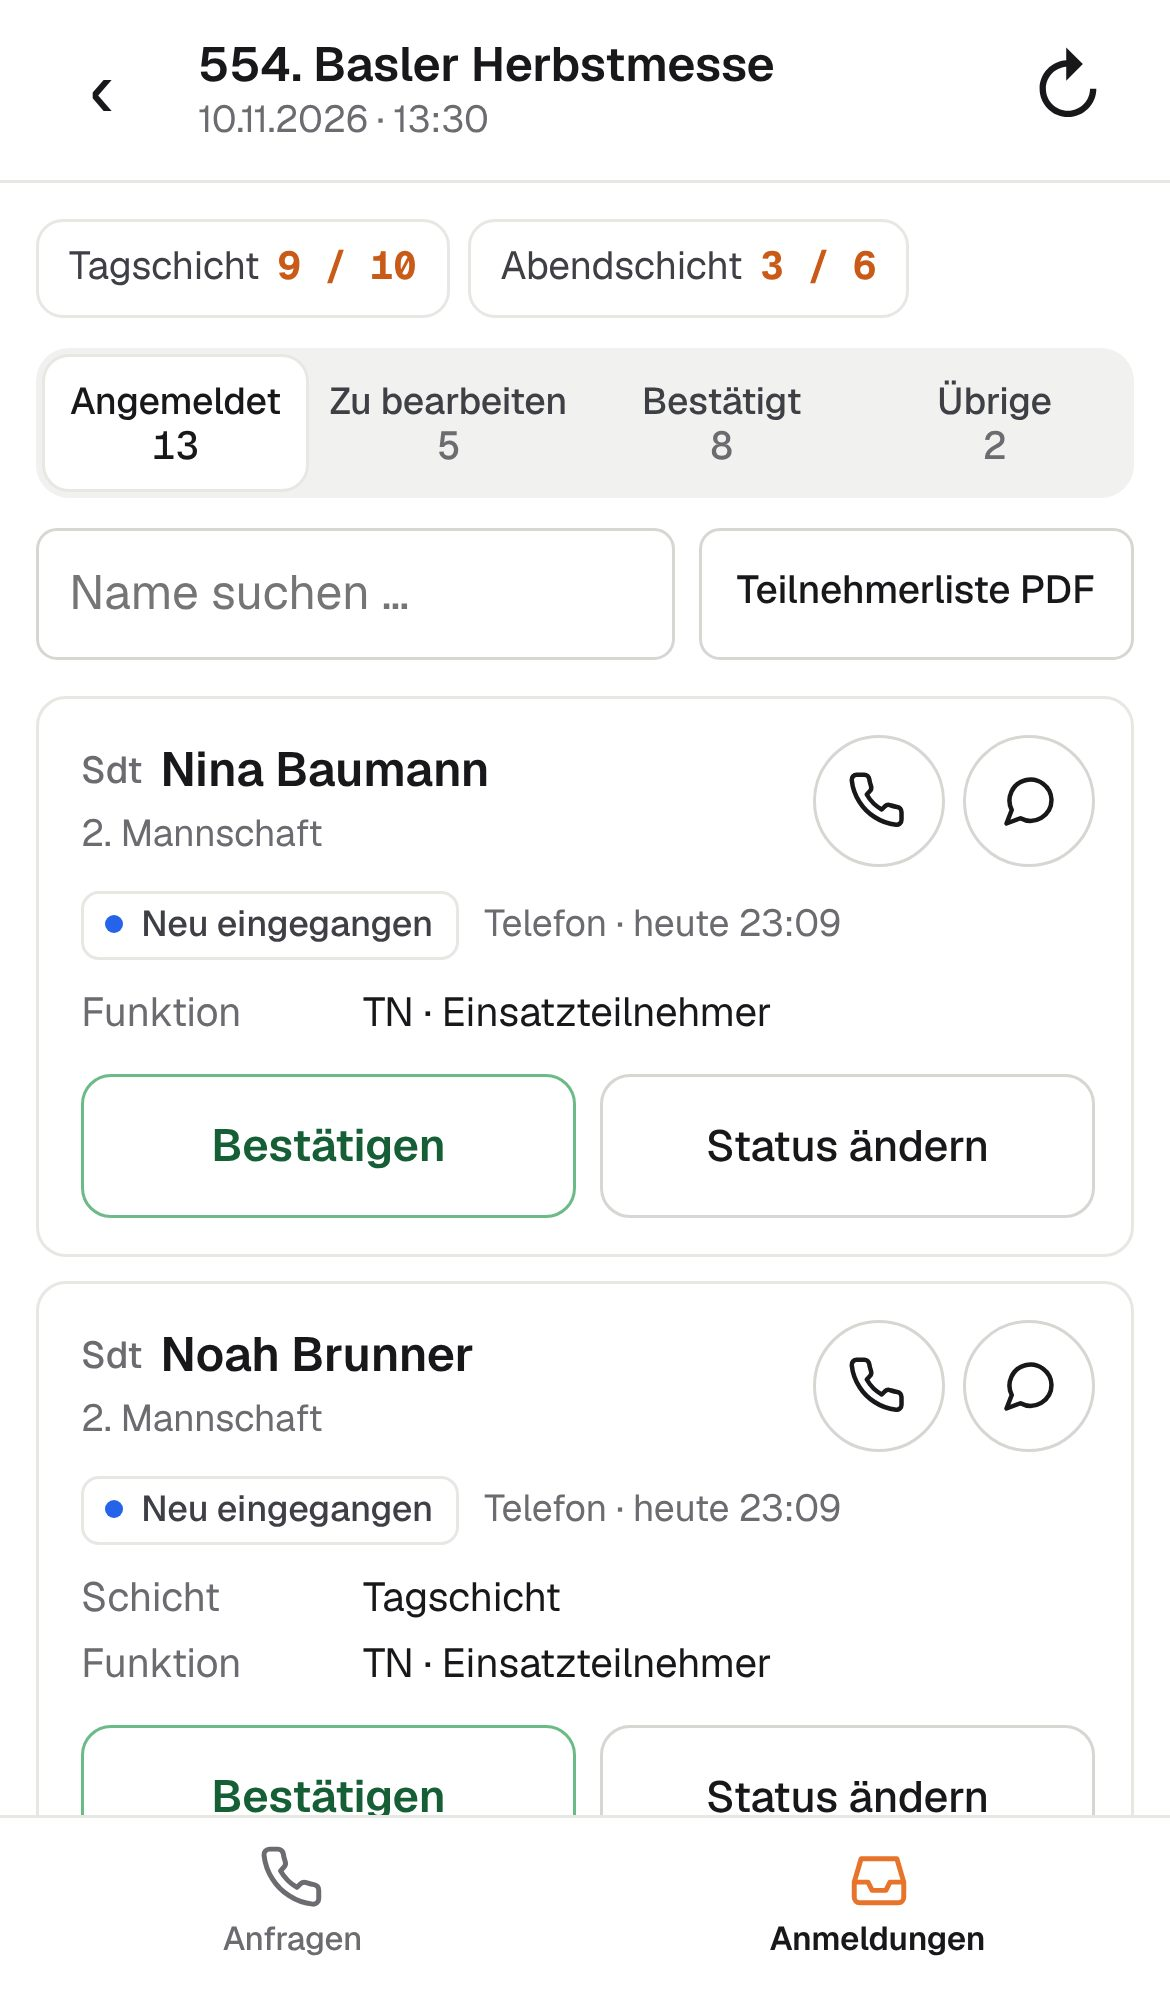
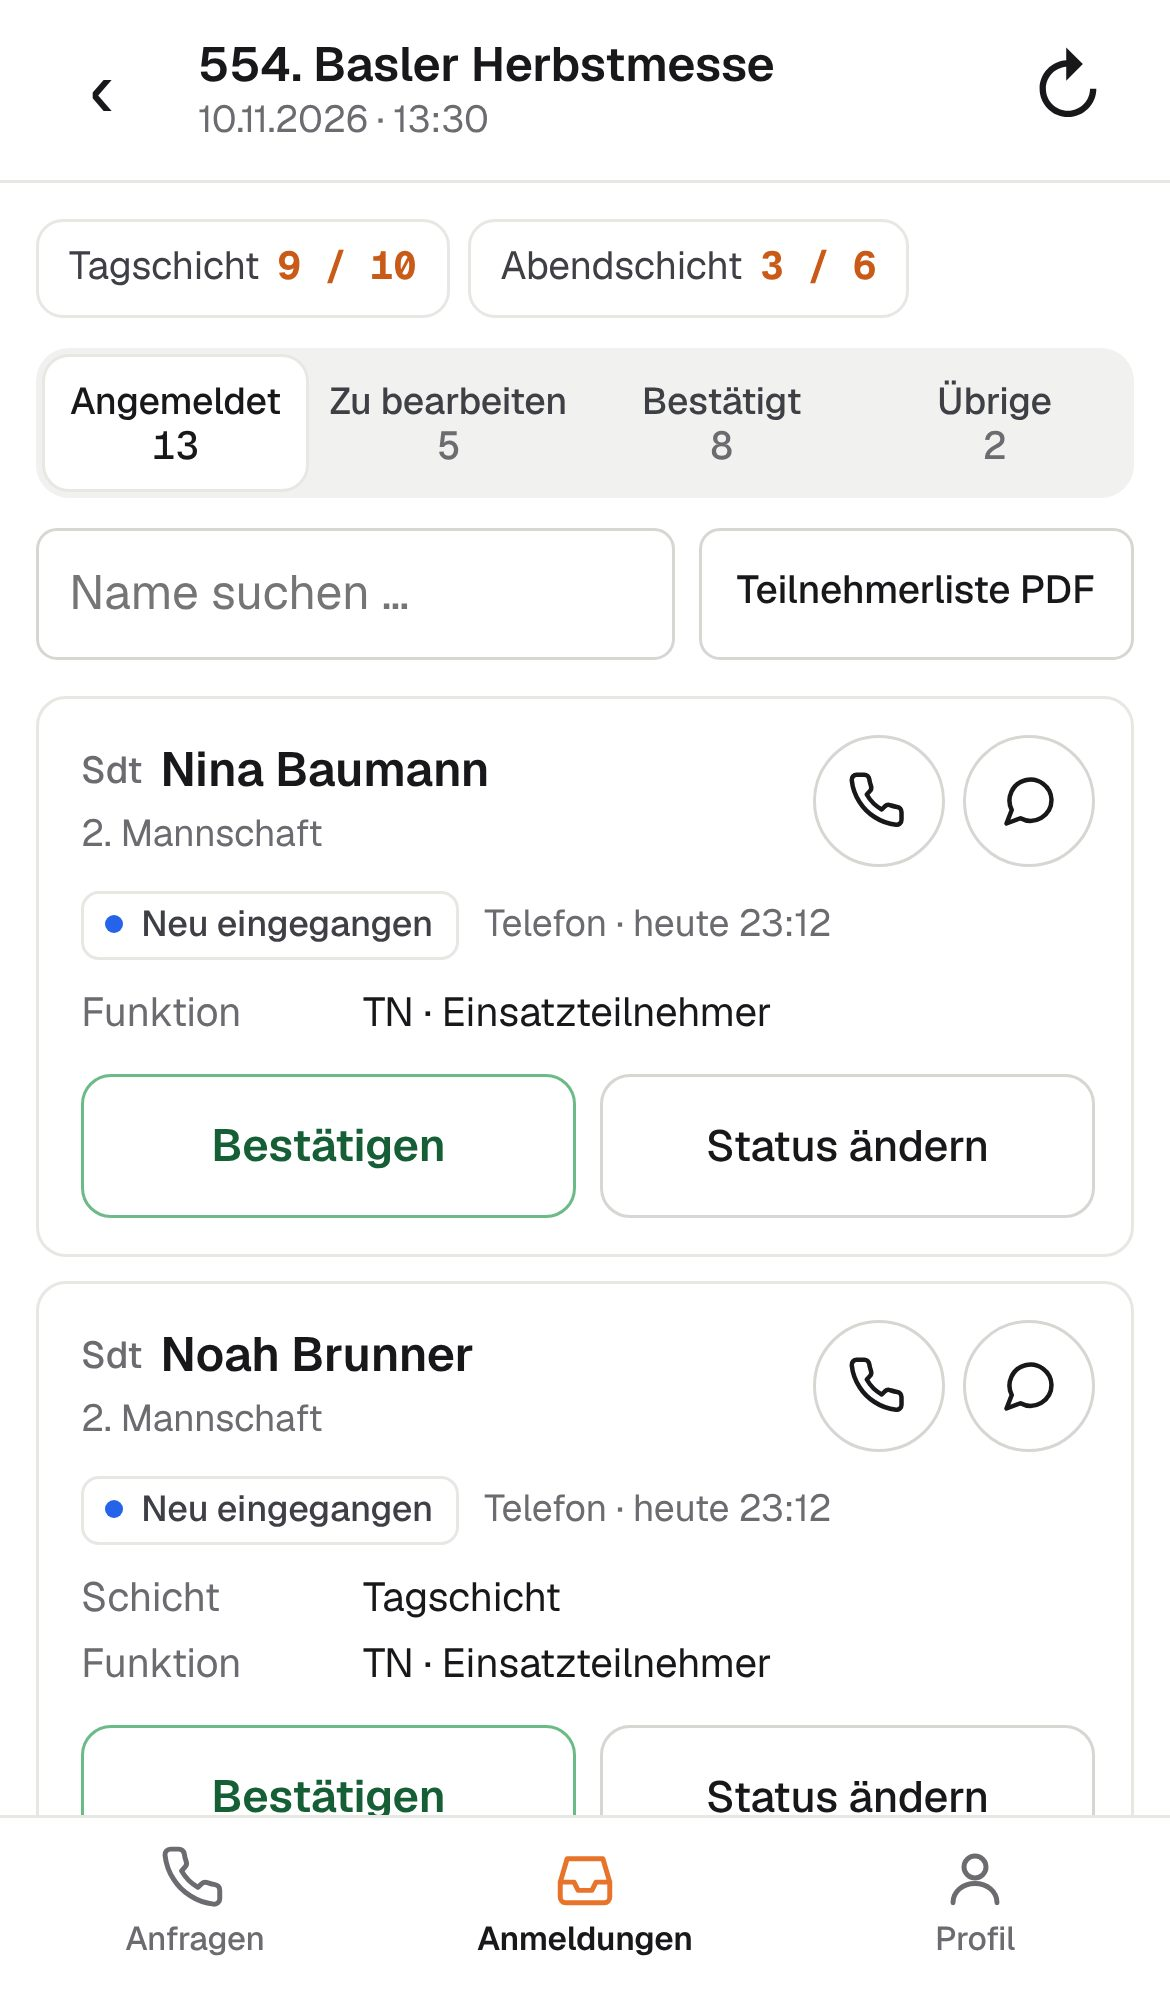
Handy-App: Reiter «Profil» statt Fusszeile
- Fusszeile (Name, Ganze Ansicht, Abmelden) entfernt
- Neuer Reiter «Profil» in der Leiste unten: Passwort ändern, Zwei-Faktor-Anmeldung,
  Darstellung (Wie System, Hell, Dunkel), Handbuch, Ganze Ansicht, Abmelden
- Passwort- und Zwei-Faktor-Seiten erscheinen auf dem Handy im Rahmen der Handy-App mit Leiste
- Handbuch Kapitel 11 nachgeführt, neues Bild 53, Bilder 46–52 neu, Tests ergänzt

Claude-Session: https://claude.ai/code/session_01EBemd4qYCqtvJgMncAa4uL

diff --git a/public/css/handy.css b/public/css/handy.css
@@ -16,9 +16,6 @@ body.handy { background: var(--bg); color: var(--text); margin: 0; min-height: 1
 .h-main { flex: 1; width: 100%; max-width: 640px; margin: 0 auto; padding: 12px 12px 24px; box-sizing: border-box; }
 .h-main .flash { margin-bottom: 10px; }
 
-.h-foot { display: flex; align-items: center; gap: 16px; justify-content: center; flex-wrap: wrap; padding: 16px 12px; padding-bottom: max(16px, env(safe-area-inset-bottom)); border-top: 1px solid var(--line); font-size: 13px; color: var(--muted); }
-.h-foot a, .h-foot button { color: var(--text-2); background: none; border: 0; font: inherit; padding: 10px 4px; cursor: pointer; text-decoration: underline; text-underline-offset: 3px; }
-.h-foot form { margin: 0; }
 
 .h-empty { text-align: center; padding: 32px 12px; color: var(--muted); }
 .h-empty .btn { margin-top: 8px; }
@@ -171,3 +168,27 @@ body.handy { padding-bottom: calc(60px + env(safe-area-inset-bottom)); }
 .h-contact-row { display: grid; grid-template-columns: 1fr 1fr; gap: 8px; }
 .h-contact-btn { min-height: 48px; font-size: 15px; gap: 8px; }
 .h-contact-btn svg { width: 18px; height: 18px; }
+
+/* ---------- Profil ---------- */
+.h-profile { display: flex; align-items: center; gap: 14px; padding: 8px 2px 16px; }
+.h-profile strong { display: block; font-size: 18px; font-weight: 600; }
+.h-avatar { width: 52px; height: 52px; border-radius: 50%; display: inline-flex; align-items: center; justify-content: center; font-weight: 600; font-size: 17px; flex: none; }
+.h-section { margin: 18px 2px 8px; font-size: 12.5px; font-weight: 600; color: var(--muted); text-transform: uppercase; letter-spacing: 0.04em; }
+.h-menu { list-style: none; margin: 0; padding: 0; border: 1px solid var(--line); border-radius: var(--radius); overflow: hidden; }
+.h-menu li + li { border-top: 1px solid var(--line); }
+.h-menu a, .h-menu button { display: flex; align-items: center; gap: 12px; width: 100%; min-height: 52px; padding: 8px 14px; box-sizing: border-box; background: var(--card); border: 0; color: var(--text); font: inherit; font-size: 15.5px; text-align: left; text-decoration: none; cursor: pointer; }
+.h-menu a:active, .h-menu button:active { background: var(--hover); }
+.h-menu svg { width: 20px; height: 20px; flex: none; color: var(--muted); }
+.h-menu span { flex: 1; min-width: 0; }
+.h-menu small { display: block; font-size: 12.5px; color: var(--muted); }
+.h-menu .h-chev { flex: none; color: var(--muted); font-size: 20px; }
+.h-menu form { margin: 0; }
+.h-logout, .h-logout svg { color: var(--dot-red) !important; }
+.h-theme { margin: 0; }
+.h-theme .segmented { border-radius: 10px; }
+.h-theme .segmented button { min-height: 44px; border: 0; background: var(--paper); color: var(--text); font: inherit; font-size: 14px; font-weight: 500; cursor: pointer; }
+.h-theme .segmented button + button { border-left: 1px solid var(--border-strong); }
+.h-theme .segmented button.is-on { background: var(--ink); color: var(--paper); }
+
+/* Konto-Seiten im Rahmen der Handy-App */
+body.handy .topbar { display: none; }

diff --git a/src/lib/icons.js b/src/lib/icons.js
@@ -8,6 +8,10 @@ const PATHS = {
   calendar: '<rect x="3" y="4.5" width="18" height="16.5" rx="2"/><path d="M3 9.5h18M8 2.5v4M16 2.5v4"/>',
   inbox: '<path d="M3 13.5h5l1.5 3h5l1.5-3h5"/><path d="M5.5 5h13l2.5 8.5V19a2 2 0 0 1-2 2H5a2 2 0 0 1-2-2v-5.5Z"/>',
   help: '<circle cx="12" cy="12" r="9"/><path d="M9.3 9.2a2.8 2.8 0 0 1 5.4 1c0 1.9-2.7 2.5-2.7 4"/><path d="M12 17.5h.01"/>',
+  key: '<circle cx="7.5" cy="15.5" r="4"/><path d="M10.5 12.5 20 3M16 7l3 3M14 9l2 2"/>',
+  shield: '<path d="M12 2.5 4.5 5.5v6c0 4.6 3.2 8.4 7.5 10 4.3-1.6 7.5-5.4 7.5-10v-6Z"/><path d="m9 12 2 2 4-4"/>',
+  logout: '<path d="M9 21H5a2 2 0 0 1-2-2V5a2 2 0 0 1 2-2h4M16 17l5-5-5-5M21 12H9"/>',
+  user: '<circle cx="12" cy="8" r="4"/><path d="M4 21c0-4.1 3.6-7 8-7s8 2.9 8 7"/>',
   users: '<circle cx="9" cy="8" r="3.5"/><path d="M2.5 20.5c0-3.6 2.9-6 6.5-6s6.5 2.4 6.5 6"/><path d="M16 4.8a3.3 3.3 0 0 1 0 6.4M18 14.8c2.1.7 3.5 2.8 3.5 5.7"/>',
   forms: '<path d="M14 2.5H6.5a2 2 0 0 0-2 2v15a2 2 0 0 0 2 2h11a2 2 0 0 0 2-2V8Z"/><path d="M14 2.5V8h5.5M8.5 13h7M8.5 17h5"/>',
   settings: '<circle cx="12" cy="12" r="3"/><path d="M19.4 15a1.7 1.7 0 0 0 .3 1.8l.1.1a2 2 0 1 1-2.8 2.8l-.1-.1a1.7 1.7 0 0 0-1.8-.3 1.7 1.7 0 0 0-1 1.5V21a2 2 0 1 1-4 0v-.1a1.7 1.7 0 0 0-1.1-1.5 1.7 1.7 0 0 0-1.8.3l-.1.1a2 2 0 1 1-2.8-2.8l.1-.1a1.7 1.7 0 0 0 .3-1.8 1.7 1.7 0 0 0-1.5-1H3a2 2 0 1 1 0-4h.1a1.7 1.7 0 0 0 1.5-1.1 1.7 1.7 0 0 0-.3-1.8l-.1-.1a2 2 0 1 1 2.8-2.8l.1.1a1.7 1.7 0 0 0 1.8.3H9a1.7 1.7 0 0 0 1-1.5V3a2 2 0 1 1 4 0v.1a1.7 1.7 0 0 0 1 1.5 1.7 1.7 0 0 0 1.8-.3l.1-.1a2 2 0 1 1 2.8 2.8l-.1.1a1.7 1.7 0 0 0-.3 1.8V9a1.7 1.7 0 0 0 1.5 1H21a2 2 0 1 1 0 4h-.1a1.7 1.7 0 0 0-1.5 1Z"/>',

diff --git a/src/routes/handy.js b/src/routes/handy.js
@@ -38,6 +38,12 @@ function handyTarget(path) {
   return '/handy';
 }
 
+// Konto-Seiten (Passwort, Zwei-Faktor) zeigt das Handy im Rahmen der Handy-App. Läuft vor den Login-Routen.
+function shellMiddleware(req, res, next) {
+  if (/^\/konto(\/|$)/.test(req.path) && isPhone(req) && req.cookies?.[PC_COOKIE] !== 'pc' && req.user?.role !== 'einsatzleiter') res.locals.handyShell = true;
+  next();
+}
+
 router.use((req, res, next) => {
   if (req.method !== 'GET' || req.xhr || !isPhone(req)) return next();
   if (KEEP_PC_PATHS.test(req.path) || req.query.format || req.cookies?.[PC_COOKIE] === 'pc') return next();
@@ -276,6 +282,11 @@ router.post('/handy/einsatz/:id/anmeldung/:rid/status', loadEvent, (req, res) =>
   res.redirect(`${back(req)}#r${reg.id}`);
 });
 
+// ---------- Profil: Konto, Darstellung, Ganze Ansicht, Abmelden ----------
+router.get('/handy/profil', (req, res) => {
+  res.render('handy/profil', { title: 'Profil', twofaOn: require('../auth/twofa').isEnabled(req.user) });
+});
+
 // ---------- Nach Teilnehmer: eine Person, alle kommenden Einsätze ----------
 router.get('/handy/personen', (req, res) => {
   const evts = upcoming();
@@ -307,3 +318,4 @@ router.get('/handy/personen/:pid', (req, res) => {
 module.exports = router;
 module.exports.answerOf = answerOf;
 module.exports.isPhone = isPhone;
+module.exports.shellMiddleware = shellMiddleware;

diff --git a/test/handy.test.js b/test/handy.test.js
@@ -204,6 +204,18 @@ test('Zurücksetzen stellt den Stand vorher wieder her', async () => {
   assert.equal(db.one('SELECT 1 AS x FROM registrations WHERE event_id = ? AND person_id = ?', ev, kai), undefined, 'erste Zusage zurückgesetzt: Anmeldung weg');
 });
 
+test('Profil: Konto, Darstellung, Ganze Ansicht, Abmelden; Konto-Seiten im Rahmen der Handy-App', async () => {
+  const cookie = await login('lena', 'Aufgebot-2026-x');
+  const page = await (await get('/handy/profil', cookie)).text();
+  for (const t of ['href="/konto/passwort"', 'href="/konto/2fa"', 'action="/konto/darstellung"', 'href="/handy/ganze-ansicht"', 'action="/logout"']) assert.ok(page.includes(t), t);
+  assert.match(page, /class="h-nav"[\s\S]*Einsätze[\s\S]*Teilnehmer[\s\S]*Profil/);
+  assert.doesNotMatch(page, /class="h-foot"/, 'keine Fusszeile mehr');
+  const pw = await (await getAs('/konto/passwort', cookie, IPHONE)).text();
+  assert.match(pw, /class="h-nav"/, 'Passwort-Seite mit Leiste unten');
+  assert.doesNotMatch(pw, /class="sidebar"/);
+  assert.match(await (await get('/konto/passwort', cookie)).text(), /class="sidebar"/, 'am PC wie bisher');
+});
+
 test('Einsatzleiter haben keine Handy-App', async () => {
   const cookie = await login('leiter', 'Kommando-Lauf-2026');
   assert.equal((await get('/handy', cookie)).status, 403);

diff --git a/src/app.js b/src/app.js
@@ -70,6 +70,7 @@ function createApp() {
   app.use(auth.loadSession);
   app.use(helpers.flashMiddleware);
   app.use(helpers.localsMiddleware);
+  app.use(require('./routes/handy').shellMiddleware);
   app.use(require('./routes/auth'));
 
   // Ab hier nur mit Login

diff --git a/docs/handbuch/handbuch.md b/docs/handbuch/handbuch.md
@@ -411,7 +411,7 @@ Die Handy-App ist für die Übung oder den Einsatz gemacht. Du fragst die Leute 
 
 **Auf dem Handy kommt immer die Handy-App.** Der Einsatzplaner erkennt ein Handy und öffnet automatisch die passende Seite der Handy-App. Tablets und Computer zeigen weiter die normale Ansicht. Das Handbuch und die Kontoseiten öffnen sich auch auf dem Handy normal. Die Anmeldung ist dieselbe wie im Einsatzplaner.
 
-**Ganze Ansicht:** Unten auf jeder Seite der Handy-App steht **Ganze Ansicht**. Dieser Link zeigt eine Stunde lang den normalen Einsatzplaner, z. B. um einen Einsatz zu ändern. Danach oder mit dem Menüpunkt **Handy-App** kommt wieder die Handy-App.
+**Ganze Ansicht:** Im Reiter **Profil** steht **Ganze Ansicht**. Dieser Knopf zeigt eine Stunde lang den normalen Einsatzplaner, z. B. um einen Einsatz zu ändern. Danach oder mit dem Menüpunkt **Handy-App** kommt wieder die Handy-App.
 
 **Auf den Startbildschirm legen** (nur einmal nötig):
 
@@ -422,12 +422,12 @@ Danach steht **KKB Anfragen** mit dem orangen KKB-Symbol auf dem Startbildschirm
 
 #### Die Leiste unten
 
-Unten steht immer eine Leiste mit zwei Knöpfen. Mit ihr schaltest du zwischen den Ansichten um:
+Unten steht immer eine Leiste. Mit ihr schaltest du zwischen den Ansichten um:
 
 | Wo | Knöpfe in der Leiste |
 |---|---|
-| Ausserhalb eines Einsatzes | **Einsätze** und **Teilnehmer** |
-| Innerhalb eines Einsatzes | **Anfragen** und **Anmeldungen** |
+| Ausserhalb eines Einsatzes | **Einsätze**, **Teilnehmer** und **Profil** |
+| Innerhalb eines Einsatzes | **Anfragen**, **Anmeldungen** und **Profil** |
 
 Der Pfeil ‹ oben links führt aus dem Einsatz zurück zu den Einsätzen. Der Knopf ↻ oben rechts lädt die Seite neu. So siehst du auch Antworten, die andere inzwischen eingetragen haben.
 
@@ -490,6 +490,18 @@ Die Ansicht **Teilnehmer** zeigt alle aktiven Mitglieder, nach Rang sortiert. Re
 ![Handy-App: eine Person mit allen Einsätzen](bilder/51-handy-person.jpg)
 
 Ein Tipp auf eine Person zeigt alle kommenden Einsätze mit ihrem Stand. Oben stehen **Anrufen** und **WhatsApp**. Pro Einsatz trägst du die Antwort mit denselben Knöpfen ein wie bei den Anfragen. So fragst du eine Person für mehrere Einsätze auf einmal.
+
+#### Profil
+
+![Handy-App: Profil](bilder/53-handy-profil.jpg)
+
+Der Reiter **Profil** enthält alles zum eigenen Konto, wie unten links in der Seitenleiste am Computer:
+
+- **Passwort ändern** und **Zwei-Faktor-Anmeldung** öffnen dieselben Seiten wie am Computer, aber im Rahmen der Handy-App mit der Leiste unten. Neben der Zwei-Faktor-Anmeldung steht, ob sie eingerichtet ist.
+- **Darstellung:** **Wie System**, **Hell** oder **Dunkel**. Die Wahl gilt für dein Konto, also auch am Computer.
+- **Handbuch** öffnet dieses Handbuch.
+- **Ganze Ansicht** zeigt eine Stunde lang den normalen Einsatzplaner.
+- **Abmelden** meldet dich auf diesem Handy ab.
 
 Alles, was du in der Handy-App einträgst, steht sofort auch im Reiter **Anfragen**, in den **Anmeldungen**, in den **Rückmeldungen** und im **Verlauf** der Person. Einsatzleiter haben keinen Zugang zur Handy-App.
 
@@ -1012,7 +1024,7 @@ Nein. Die Funktion EL ist die Einteilung am Einsatz. Die Rolle «Einsatzleiter»
 Nein. In der Übersicht des Einsatzes unter **Externe Abteilungen** nur die Abteilung und die Anzahl Personen eintragen, bei Bedarf auch Essenseinschränkungen als Anzahl (z. B. 2 × vegetarisch). Sie zählen in der Besetzung und in der Verpflegung mit und stehen auf der Teilnehmerliste.
 
 **Funktioniert der Einsatzplaner auf dem Handy?**
-Ja. Auf dem Handy öffnet sich automatisch die **Handy-App** (Kapitel 11, «Mit dem Handy anfragen»). Auf dem Tablet erscheint die normale Ansicht. Die normale Ansicht gibt es auf dem Handy über **Ganze Ansicht** unten auf jeder Seite.
+Ja. Auf dem Handy öffnet sich automatisch die **Handy-App** (Kapitel 11, «Mit dem Handy anfragen»). Auf dem Tablet erscheint die normale Ansicht. Die normale Ansicht gibt es auf dem Handy im Reiter **Profil** über **Ganze Ansicht**.
 
 **Gibt es die Handy-App im App Store oder Play Store?**
 Nein. Die Handy-App läuft im Browser. Man legt sie über «Zum Startbildschirm hinzufügen» auf das Handy. Danach öffnet sie sich wie eine normale App. Updates kommen automatisch mit jedem Update des Einsatzplaners.
